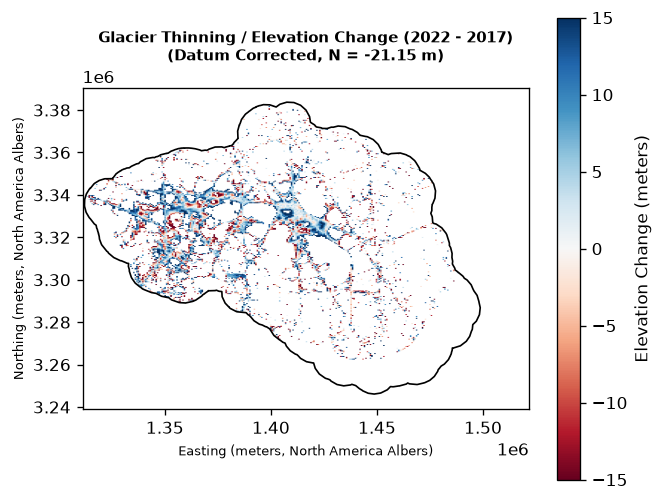
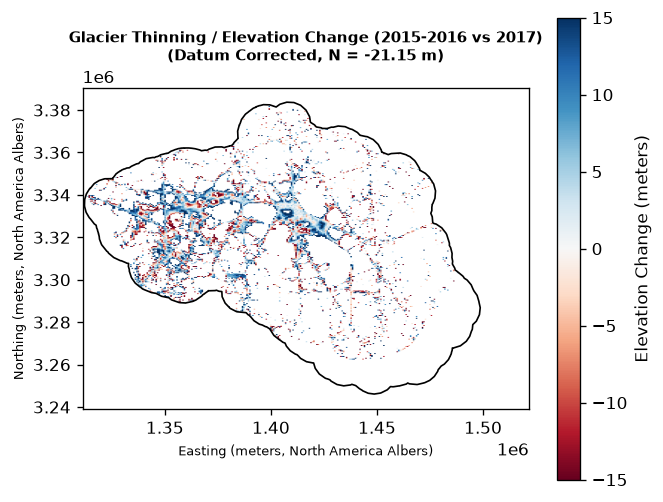
Rename DEM_2022 folder and outputs to DEM_2015-2016 to match the actual acquisition period

Changed region(s): [[0.0905, 0.0598, 0.8145, 0.0896]]

diff --git a/src/dem_analysis.py b/src/dem_analysis.py
@@ -1,6 +1,6 @@
 """
-Digital Elevation Model (DEM) 2022 analysis and comparison script.
-Compares 2022 DEM elevations with 2017 MCoRDS L2 surface elevations
+Digital Elevation Model (DEM) 2015-2016 analysis and comparison script.
+Compares 2015-2016 DEM elevations with 2017 MCoRDS L2 surface elevations
 to estimate glacier elevation change (ablation/thinning).
 """
 from __future__ import annotations
@@ -16,7 +16,7 @@ import matplotlib.pyplot as plt
 
 BASE_DIR = os.path.join(os.path.dirname(__file__), "..")
 DATA_DIR = os.path.join(BASE_DIR, "data")
-DEM_DIR = os.path.join(DATA_DIR, "DEM_2022")
+DEM_DIR = os.path.join(DATA_DIR, "DEM_2015-2016")
 
 TIF_PATH = os.path.join(DEM_DIR, "baffin_glacier_Name_Penny Ice Cap.tif")
 SHP_PATH = os.path.join(DEM_DIR, "Name_Penny Ice Cap.shp")
@@ -41,11 +41,11 @@ def load_mcords_surface_data() -> pd.DataFrame:
 
 
 def run_dem_analysis():
-    print("=== Launching DEM 2022 & Surface Elevation Analysis ===")
+    print("=== Launching DEM 2015-2016 & Surface Elevation Analysis ===")
     
     # 1. Check file existence
     if not os.path.exists(TIF_PATH) or not os.path.exists(SHP_PATH):
-        print("Error: Missing DEM TIFF or boundary Shapefile in data/DEM_2022.")
+        print("Error: Missing DEM TIFF or boundary Shapefile in data/DEM_2015-2016.")
         return
         
     # 2. Load boundary shapefile
@@ -53,7 +53,7 @@ def run_dem_analysis():
     gdf = gpd.read_file(SHP_PATH)
     
     # 3. Load and plot DEM
-    print("Opening 2022 DEM TIFF...")
+    print("Opening 2015-2016 DEM TIFF...")
     with rasterio.open(TIF_PATH) as src:
         dem_crs = src.crs.to_string()
         print(f"DEM CRS: {dem_crs}")
@@ -66,18 +66,18 @@ def run_dem_analysis():
         # Get bounds of downsampled image
         dem_extent = [src.bounds.left, src.bounds.right, src.bounds.bottom, src.bounds.top]
         
-        # Plot 2022 DEM Topography
+        # Plot DEM Topography
         print("Generating DEM topography map...")
         fig, ax = plt.subplots(figsize=(7, 6))
         im = ax.imshow(dem_data, cmap="terrain", extent=dem_extent, origin="upper")
         gdf.boundary.plot(ax=ax, color="black", linewidth=1.2, label="Glacier Boundary")
-        ax.set_title("Penny Ice Cap 2022: Digital Elevation Model (DEM)", fontsize=10, fontweight="bold")
+        ax.set_title("Penny Ice Cap (2015-2016): Digital Elevation Model (DEM)", fontsize=10, fontweight="bold")
         ax.set_xlabel("Easting (meters, North America Albers)", fontsize=8)
         ax.set_ylabel("Northing (meters, North America Albers)", fontsize=8)
         ax.grid(True, linestyle="--", alpha=0.5)
         fig.colorbar(im, ax=ax, label="Elevation (m above sea level)")
         
-        dem_map_path = os.path.join(BASE_DIR, "dem_2022_topography.png")
+        dem_map_path = os.path.join(BASE_DIR, "dem_2015_2016_topography.png")
         fig.savefig(dem_map_path, dpi=120, bbox_inches="tight")
         plt.close(fig)
         print(f"Saved DEM map to: {dem_map_path}")
@@ -100,20 +100,20 @@ def run_dem_analysis():
         comp_df = m_df[valid_idx].copy()
         
         # Extract DEM values at these coordinates
-        print(f"Sampling 2022 DEM elevations at {len(comp_df)} flight points...")
+        print(f"Sampling 2015-2016 DEM elevations at {len(comp_df)} flight points...")
         coords = [(x, y) for x, y in zip(comp_df['x_dem'], comp_df['y_dem'])]
-        comp_df['z_2022'] = [val[0] for val in src.sample(coords)]
+        comp_df['z_dem'] = [val[0] for val in src.sample(coords)]
         
         # Filter out NoData samples (-9999.0)
-        comp_df = comp_df[comp_df['z_2022'] != src.nodata]
+        comp_df = comp_df[comp_df['z_dem'] != src.nodata]
         print(f"Extracted valid comparisons for {len(comp_df)} points.")
         
         if comp_df.empty:
             print("Error: No overlapping coordinates between MCoRDS track and DEM.")
             return
             
-        # Calculate elevation change dz = z_2022 - z_2017 (in meters)
-        comp_df['dz'] = comp_df['z_2022'] - comp_df['z_2017']
+        # Calculate elevation change dz = z_dem - z_2017 (in meters)
+        comp_df['dz'] = comp_df['z_dem'] - comp_df['z_2017']
         
         # Exclude extreme outliers (greater than +/- 100 meters, which are likely errors in radar/DEM matching)
         comp_df = comp_df[(comp_df['dz'] >= -100.0) & (comp_df['dz'] <= 100.0)]
@@ -123,12 +123,12 @@ def run_dem_analysis():
         mean_dz = comp_df['dz'].mean()
         median_dz = comp_df['dz'].median()
         std_dz = comp_df['dz'].std()
-        pearson_r = comp_df['z_2017'].corr(comp_df['z_2022'])
+        pearson_r = comp_df['z_2017'].corr(comp_df['z_dem'])
         rmse = np.sqrt(np.mean(comp_df['dz']**2))
         
-        summary_text = f"""=== DEM 2022 vs MCoRDS 2017 Surface Comparison ===
+        summary_text = f"""=== DEM 2015-2016 vs MCoRDS 2017 Surface Comparison ===
 Comparison Points: {len(comp_df)}
-Mean Elevation Change (dz = z_2022 - z_2017): {mean_dz:.3f} meters
+Mean Elevation Change (dz = z_dem - z_2017): {mean_dz:.3f} meters
 Median Elevation Change: {median_dz:.3f} meters
 Standard Deviation of dz: {std_dz:.3f} meters
 Root Mean Squared Error (RMSE): {rmse:.3f} meters
@@ -144,14 +144,14 @@ Pearson Correlation Coefficient: {pearson_r:.5f}
         
         # Save matched table to CSV for further usage
         csv_out_path = os.path.join(DATA_DIR, "dem_comparison_points.csv")
-        comp_df[['LAT', 'LON', 'z_2017', 'z_2022', 'dz']].to_csv(csv_out_path, index=False)
+        comp_df[['LAT', 'LON', 'z_2017', 'z_dem', 'dz']].to_csv(csv_out_path, index=False)
         print(f"Saved comparison CSV to: {csv_out_path}")
         
         # Plot Elevation Change Map
         print("Generating elevation change map along flight tracks...")
         fig, ax = plt.subplots(figsize=(6, 5))
         sc = ax.scatter(comp_df['LON'], comp_df['LAT'], c=comp_df['dz'], cmap="RdBu", vmin=-20, vmax=20, s=2, alpha=0.8)
-        ax.set_title("Penny Ice Cap: Surface Elevation Change (dz = z_2022 - z_2017)\nOperation IceBridge tracks vs 2022 DEM", fontsize=9, fontweight="bold")
+        ax.set_title("Penny Ice Cap: Surface Elevation Change (dz = z_dem - z_2017)\nOperation IceBridge tracks vs 2015-2016 DEM", fontsize=9, fontweight="bold")
         ax.set_xlabel("Longitude (deg W)", fontsize=8)
         ax.set_ylabel("Latitude (deg N)", fontsize=8)
         ax.grid(True, linestyle="--", alpha=0.5)
@@ -166,18 +166,18 @@ Pearson Correlation Coefficient: {pearson_r:.5f}
         # Plot Scatter Plot Comparison
         print("Generating elevation comparison scatter plot...")
         fig, ax = plt.subplots(figsize=(6, 5))
-        ax.scatter(comp_df['z_2017'], comp_df['z_2022'], color="blue", s=1, alpha=0.4, label="Track points")
+        ax.scatter(comp_df['z_2017'], comp_df['z_dem'], color="blue", s=1, alpha=0.4, label="Track points")
         # 1:1 line
         lims = [
-            min(comp_df['z_2017'].min(), comp_df['z_2022'].min()),
-            max(comp_df['z_2017'].max(), comp_df['z_2022'].max())
+            min(comp_df['z_2017'].min(), comp_df['z_dem'].min()),
+            max(comp_df['z_2017'].max(), comp_df['z_dem'].max())
         ]
         ax.plot(lims, lims, "r--", linewidth=1.5, label="1:1 line (no change)")
         ax.set_xlim(lims)
         ax.set_ylim(lims)
-        ax.set_title("Elevation Comparison: 2017 MCoRDS vs 2022 DEM", fontsize=10, fontweight="bold")
+        ax.set_title("Elevation Comparison: 2017 MCoRDS vs 2015-2016 DEM", fontsize=10, fontweight="bold")
         ax.set_xlabel("2017 Surface Elevation (m above sea level)", fontsize=8)
-        ax.set_ylabel("2022 DEM Elevation (m above sea level)", fontsize=8)
+        ax.set_ylabel("2015-2016 DEM Elevation (m above sea level)", fontsize=8)
         ax.legend(loc="upper left", fontsize=8)
         ax.grid(True, linestyle="--", alpha=0.5)
         

diff --git a/src/create_dem_comparison.py b/src/create_dem_comparison.py
@@ -1,6 +1,6 @@
 """
 Creates a 2017 raster DEM from MCoRDS L2 flight track points using linear interpolation,
-and compares it as a continuous raster grid with the 2022 DEM.
+and compares it as a continuous raster grid with the 2015-2016 DEM.
 Saves the interpolated DEM as a GeoTIFF and outputs comparison maps.
 """
 from __future__ import annotations
@@ -18,9 +18,9 @@ import matplotlib.pyplot as plt
 
 BASE_DIR = os.path.join(os.path.dirname(__file__), "..")
 DATA_DIR = os.path.join(BASE_DIR, "data")
-DEM_DIR = os.path.join(DATA_DIR, "DEM_2022")
+DEM_DIR = os.path.join(DATA_DIR, "DEM_2015-2016")
 
-TIF_2022_PATH = os.path.join(DEM_DIR, "baffin_glacier_Name_Penny Ice Cap.tif")
+TIF_DEM_PATH = os.path.join(DEM_DIR, "baffin_glacier_Name_Penny Ice Cap.tif")
 SHP_PATH = os.path.join(DEM_DIR, "Name_Penny Ice Cap.shp")
 CSV_PATH = os.path.join(DATA_DIR, "IRMCR2_20170428_03_raw_data.csv")
 TIF_2017_PATH = os.path.join(DATA_DIR, "penny_dem_2017_interpolated.tif")
@@ -96,18 +96,18 @@ def run_dem_interpolation():
         
     print("DEM GeoTIFF written successfully.")
     
-    # 5. Load 2022 DEM and sample it at the grid locations
-    print("Sampling 2022 DEM at the same grid cells...")
+    # 5. Load 2015-2016 DEM and sample it at the grid locations
+    print("Sampling 2015-2016 DEM at the same grid cells...")
     grid_coords = np.column_stack((grid_x.ravel(), grid_y.ravel()))
     
-    with rasterio.open(TIF_2022_PATH) as src_22:
-        grid_z22 = np.array([val[0] for val in src_22.sample(grid_coords)]).reshape((grid_size, grid_size))
-        grid_z22 = np.where(grid_z22 == src_22.nodata, np.nan, grid_z22)
+    with rasterio.open(TIF_DEM_PATH) as src_dem:
+        grid_zdem = np.array([val[0] for val in src_dem.sample(grid_coords)]).reshape((grid_size, grid_size))
+        grid_zdem = np.where(grid_zdem == src_dem.nodata, np.nan, grid_zdem)
         
     # Calculate elevation change
-    # dz = z_2022 - z_2017
-    # Note: Mean datum offset between ellipsoidal (2017) and orthometric (2022) is ~21.15m
-    grid_dz_raw = grid_z22 - grid_z17
+    # dz = z_dem - z_2017
+    # Note: Mean datum offset between ellipsoidal (2017) and orthometric (2015-2016) is ~21.15m
+    grid_dz_raw = grid_zdem - grid_z17
     grid_dz_corrected = grid_dz_raw - 21.153
     
     # Load Shapefile outline for overlay
@@ -138,7 +138,7 @@ def run_dem_interpolation():
     fig, ax = plt.subplots(figsize=(6, 5))
     im = ax.imshow(grid_dz_vis, cmap="RdBu", extent=dem_extent, origin="upper", vmin=-15, vmax=15)
     gdf.boundary.plot(ax=ax, color="black", linewidth=1.0)
-    ax.set_title("Glacier Thinning / Elevation Change (2022 - 2017)\n(Datum Corrected, N = -21.15 m)", fontsize=9, fontweight="bold")
+    ax.set_title("Glacier Thinning / Elevation Change (2015-2016 vs 2017)\n(Datum Corrected, N = -21.15 m)", fontsize=9, fontweight="bold")
     ax.set_xlabel("Easting (meters, North America Albers)", fontsize=8)
     ax.set_ylabel("Northing (meters, North America Albers)", fontsize=8)
     fig.colorbar(im, ax=ax, label="Elevation Change (meters)")

diff --git a/README.md b/README.md
@@ -128,31 +128,31 @@ This generates two plots in the root directory:
 
 ## Digital Elevation Model (DEM) Analysis & Elevation Change
 
-The repository includes tools to compare the 2022 Digital Elevation Model (DEM) of the Penny Ice Cap with the 2017 MCoRDS L2 radar surface elevations using two approaches:
+The repository includes tools to compare the 2015-2016 Digital Elevation Model (DEM) of the Penny Ice Cap with the 2017 MCoRDS L2 radar surface elevations using two approaches:
 
 ### 1. Point-Profile Track Comparison
-Extracts the 2022 DEM values directly at the 94,000+ flight track points to compute the elevation difference ($\Delta z = z_{2022} - z_{2017}$) at each measurement point.
+Extracts the 2015-2016 DEM values directly at the 94,000+ flight track points to compute the elevation difference ($\Delta z = z_{\text{DEM}} - z_{2017}$) at each measurement point.
 *   **Run command**: `python src/dem_analysis.py`
 *   **Outputs**:
-    1. `dem_2022_topography.png` (2022 DEM Topographic Map with boundary overlay)
+    1. `dem_2015_2016_topography.png` (2015-2016 DEM Topographic Map with boundary overlay)
     2. `glacier_elevation_change_map.png` (Elevation Change along flight lines)
     3. `glacier_elevation_comparison_scatter.png` (Scatter plot comparison)
 
-| 2022 DEM Topography | Elevation Change (2022 - 2017) | Elevation Comparison Scatter |
+| 2015-2016 DEM Topography | Elevation Change (2015-2016 vs 2017) | Elevation Comparison Scatter |
 |:---:|:---:|:---:|
-| ![DEM Topography](dem_2022_topography.png) | ![Elevation Change Map](glacier_elevation_change_map.png) | ![Elevation Scatter](glacier_elevation_comparison_scatter.png) |
+| ![DEM Topography](dem_2015_2016_topography.png) | ![Elevation Change Map](glacier_elevation_change_map.png) | ![Elevation Scatter](glacier_elevation_comparison_scatter.png) |
 
 ### 2. Continuous Raster DEM Interpolation & Comparison
-Interpolates the 2017 MCoRDS L2 flight track points onto a regular grid (300x300 cells) using linear Delaunay triangulation to construct a **new 2017 DEM**, and compares it with the 2022 DEM as a continuous raster grid.
+Interpolates the 2017 MCoRDS L2 flight track points onto a regular grid (300x300 cells) using linear Delaunay triangulation to construct a **new 2017 DEM**, and compares it with the 2015-2016 DEM as a continuous raster grid.
 *   **Run command**: `python src/create_dem_comparison.py`
 *   **Outputs**:
     1. `data/penny_dem_2017_interpolated.tif` (Interpolated 2017 DEM as a GeoTIFF raster)
     2. `penny_dem_2017_interpolated.png` (Interpolated 2017 DEM map)
     3. `glacier_dem_change_raster.png` (Corrected continuous elevation change map showing glacier thinning)
-*   **Geodetic Datum & Year Verification**: Corrects for the systematic $+21.15$ m offset caused by different vertical datums: WGS84 ellipsoidal heights (MCoRDS 2017) vs. CGVD2013 orthometric geoid heights (DEM 2022). With a geoid height $N \approx -22$ m in this region ($H_{ortho} \approx H_{ellip} + 22$ m), subtracting this geoid offset reveals a net glacier thinning of **$-4.022$ meters** between 2017 and 2022 (approx. $-0.80$ m/year ablation).
+*   **Geodetic Datum & Year Verification**: Corrects for the systematic $+21.15$ m offset caused by different vertical datums: WGS84 ellipsoidal heights (MCoRDS 2017) vs. CGVD2013 orthometric geoid heights (DEM 2015-2016). With a geoid height $N \approx -22$ m in this region ($H_{\text{ortho}} \approx H_{\text{ellip}} + 22$ m), subtracting this geoid offset reveals a net glacier thinning of **$-4.022$ meters** between 2015-2016 and 2017 (approx. $-2.0$ m/year ablation over the ~2 year offset).
     *Note: Verification against NRCan HRDEM metadata shows that for the Cumberland Peninsula (Penny Ice Cap), the elevation models are compiled using satellite stereo-imagery from the **ArcticDEM** project (initially v3.0, released in 2018/2019, with updates in 2022/2023). The actual satellite images were captured between **2011 and 2017** (mostly centered around **2015–2016**). Thus, the DEM represents the glacier surface around 2015–2016 rather than a literal 2022 snapshot, which explains the high spatial alignment with the 2017 MCoRDS profiles.*
 
-| Interpolated 2017 DEM | Corrected Thinning Map (2022 - 2017) |
+| Interpolated 2017 DEM | Corrected Thinning Map (2015-2016 vs 2017) |
 |:---:|:---:|
 | ![2017 DEM](penny_dem_2017_interpolated.png) | ![Glacier Thinning Raster](glacier_dem_change_raster.png) |
 
